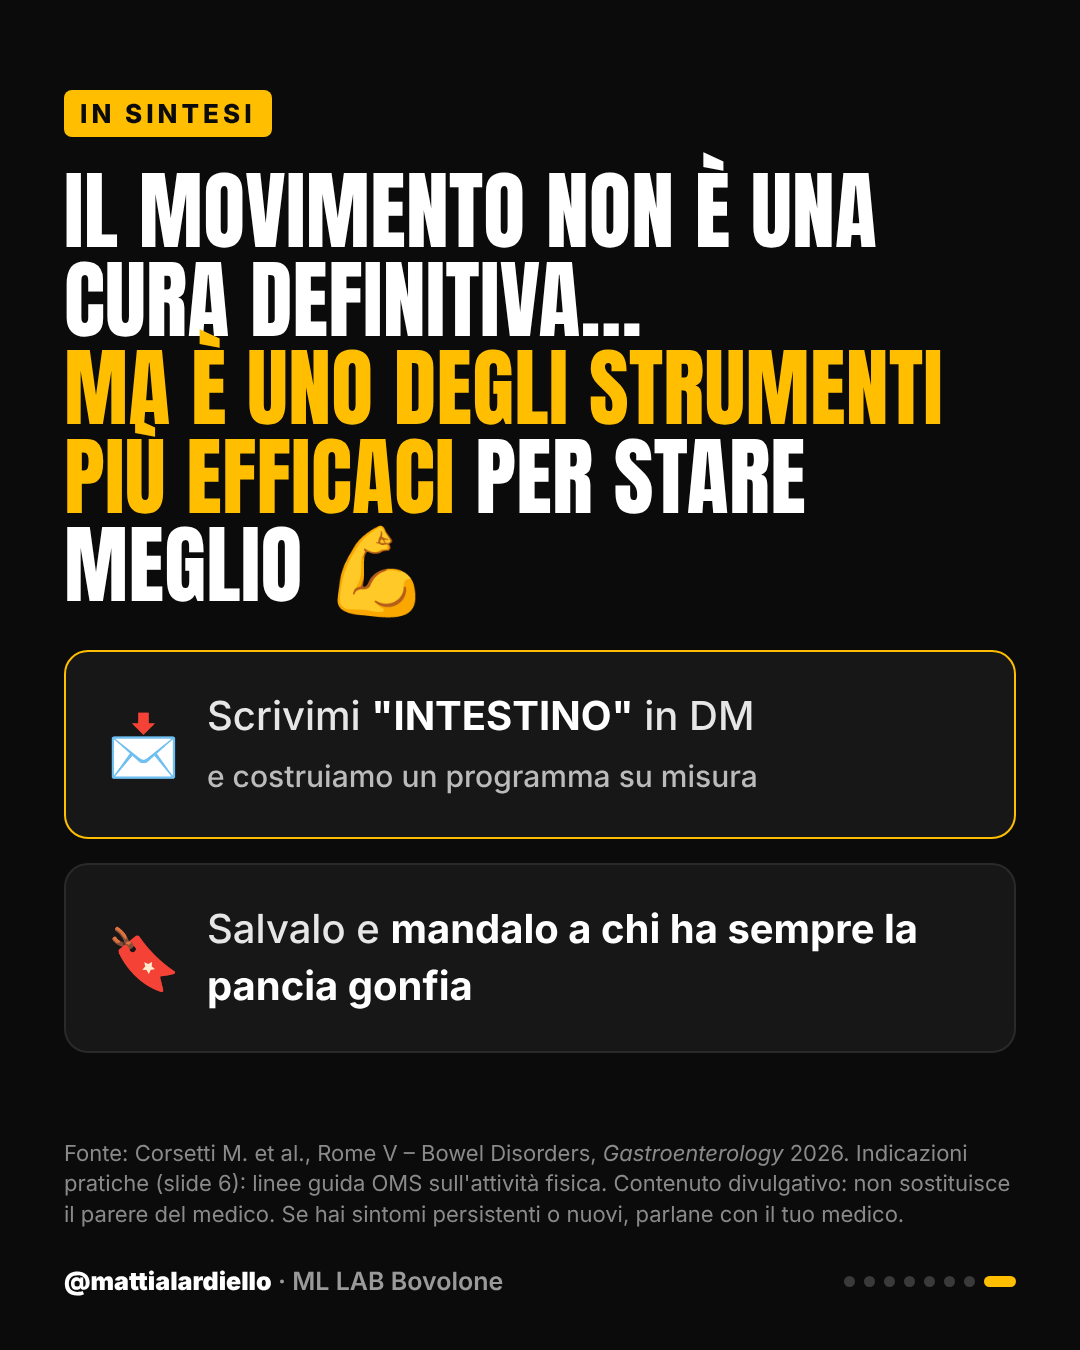
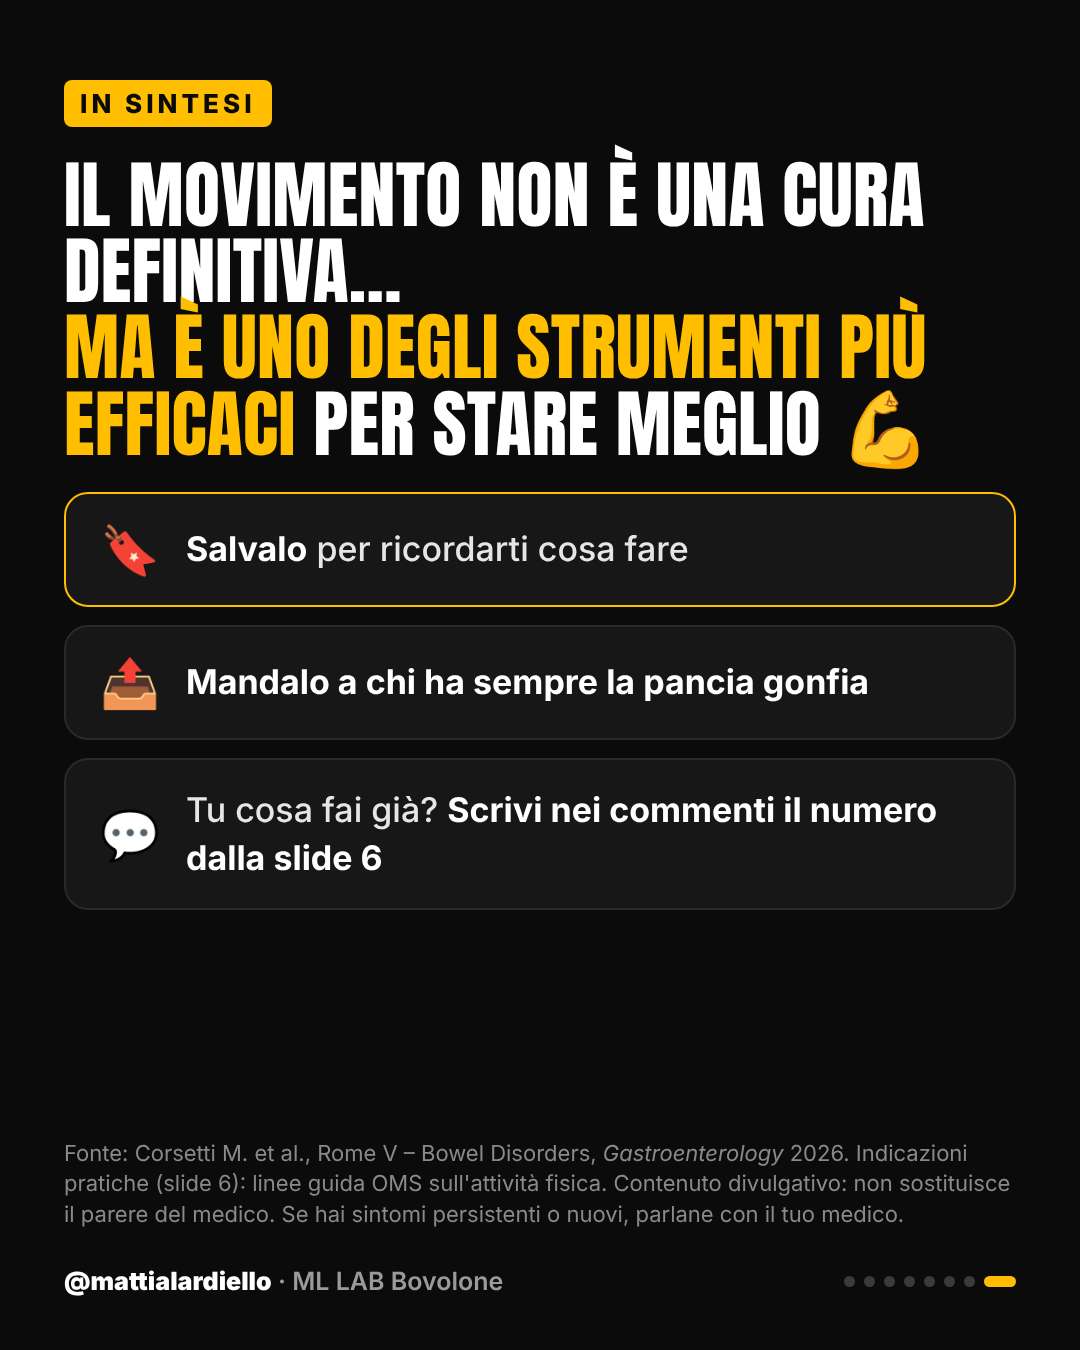
Intestino: solo divulgativo, senza CTA protocollo
Claude-Session: https://claude.ai/code/session_014pNAwoV69TZpDWEUzr7pF6

diff --git a/contenuti-instagram/README.md b/contenuti-instagram/README.md
@@ -174,8 +174,7 @@ Nei DM / nel modulo indicare chiaramente che la consulenza è a pagamento, prima
 > Le nuove linee guida Roma V (2026) parlano di disturbi dell'interazione intestino-cervello: un problema reale, che si può gestire. E il movimento fa parte della strategia.
 > Nel carosello trovi perché aiuta, cosa fare in pratica e gli errori da evitare 👉
 > Tu cosa fai già? Scrivimi nei commenti il numero dalla slide 6 👇
-> 📩 Scrivimi **INTESTINO** in DM e costruiamo un programma su misura.
 > 🔖 Salvalo e mandalo a chi ha sempre la pancia gonfia.
-> _Fonte: Corsetti M. et al., Rome V – Bowel Disorders, Gastroenterology 2026; indicazioni pratiche: linee guida OMS sull'attività fisica. Contenuto divulgativo: non sostituisce il parere del medico._
+> _Contenuto divulgativo di un personal trainer. Fonte: Corsetti M. et al., Rome V – Bowel Disorders, Gastroenterology 2026; indicazioni pratiche: linee guida OMS sull'attività fisica. Contenuto divulgativo: non sostituisce il parere del medico._
 >
-> #panciagonfia #gonfiore #intestinopigro #stitichezza #colonirritabile #ibs #asseintestinocervello #benessereintestinale #allenamentofemminile #nutrizionista #personaltrainerverona #mllab
+> #panciagonfia #gonfiore #intestinopigro #stitichezza #colonirritabile #ibs #asseintestinocervello #benessereintestinale #allenamentofemminile #movimento #personaltrainerverona #mllab
